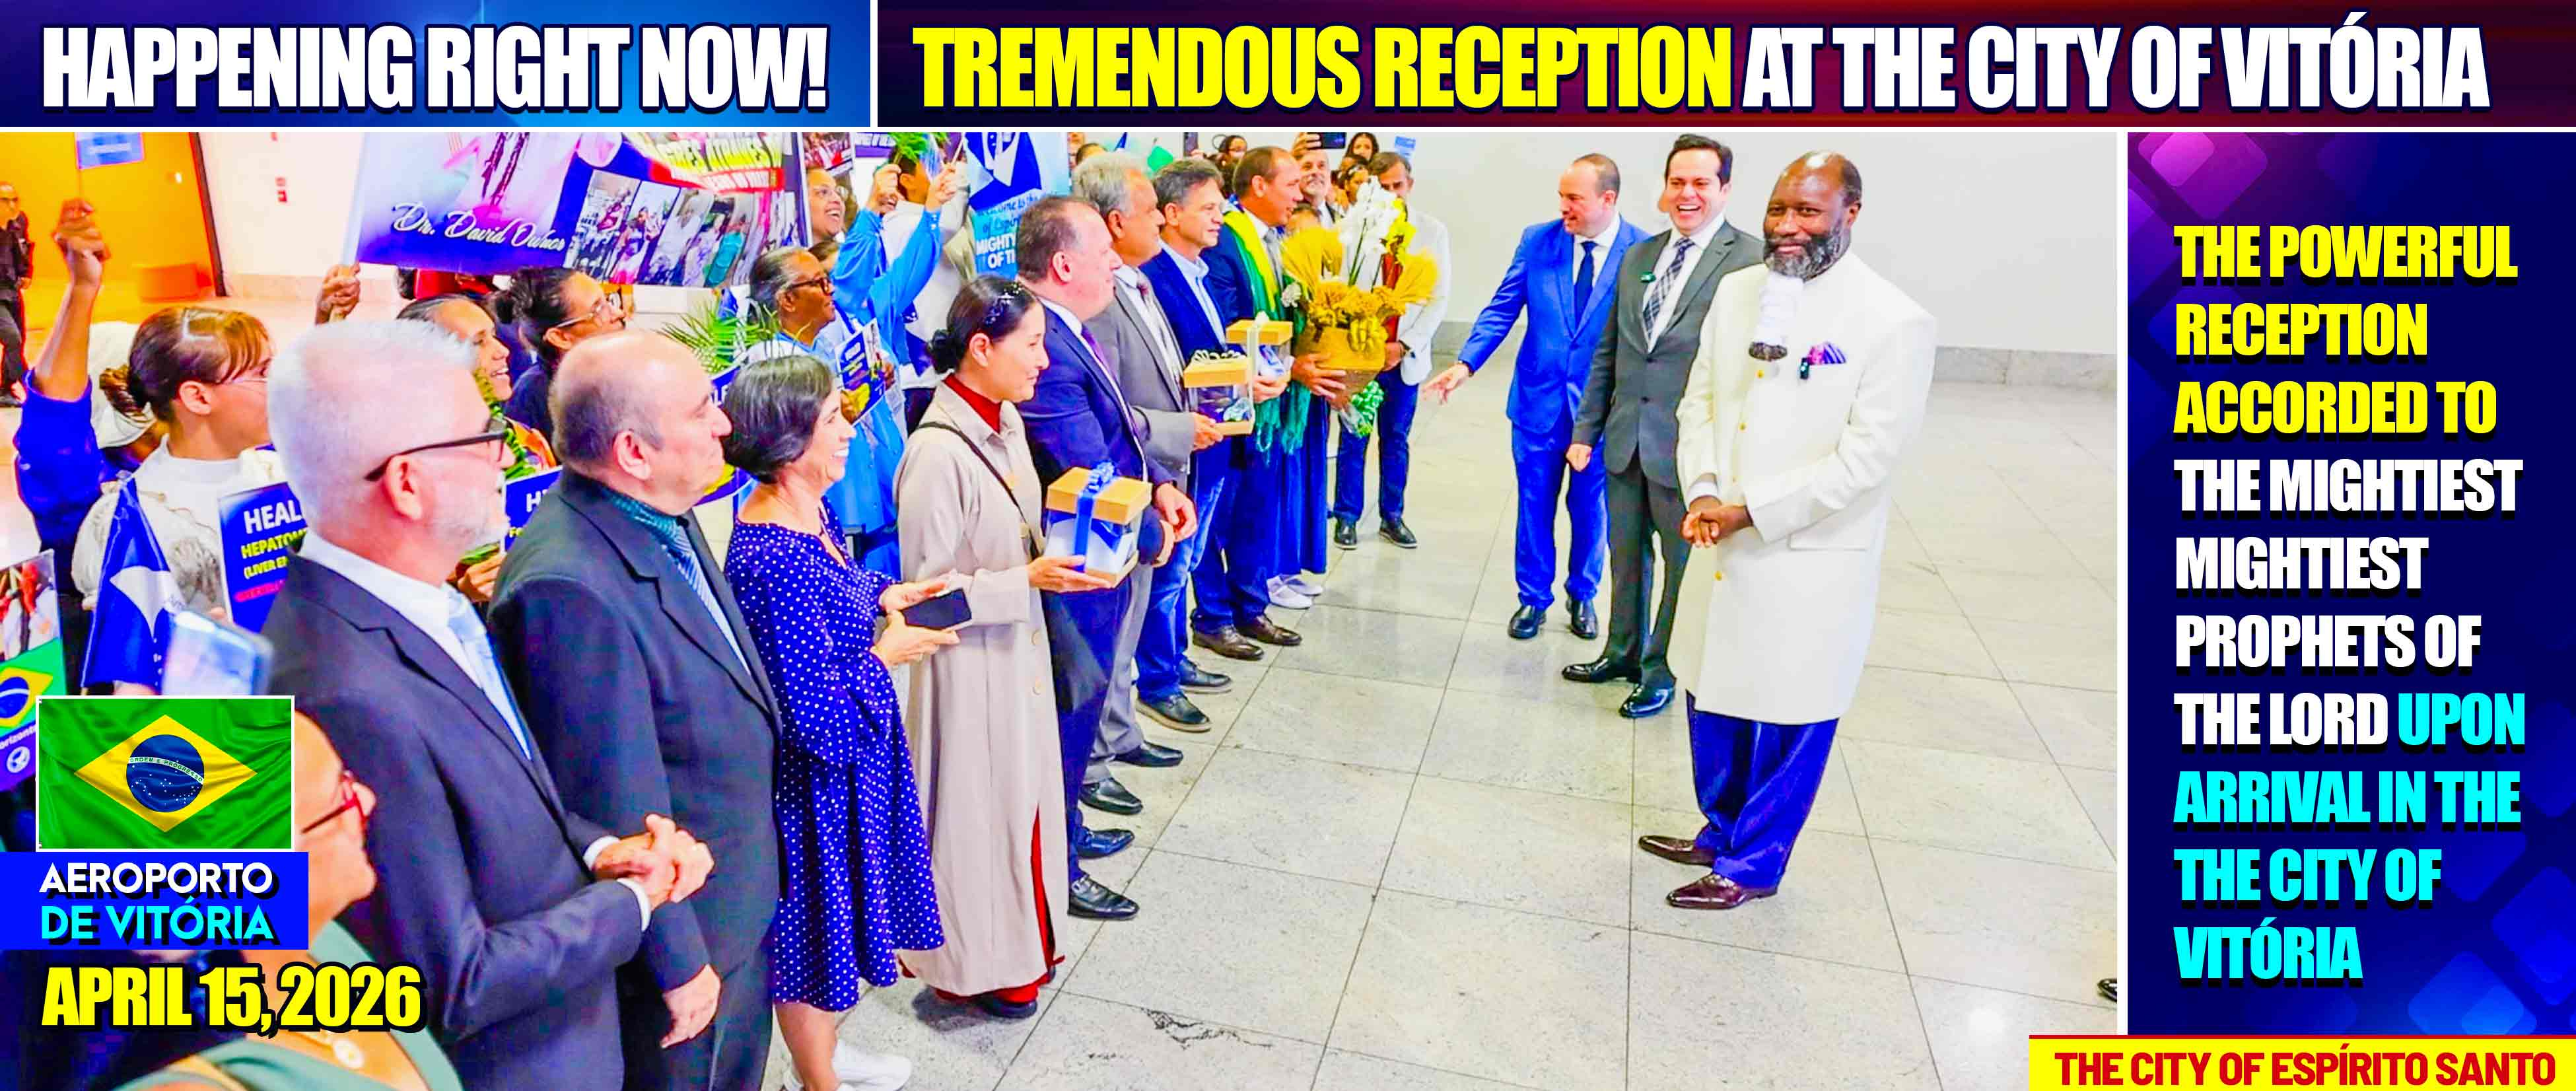
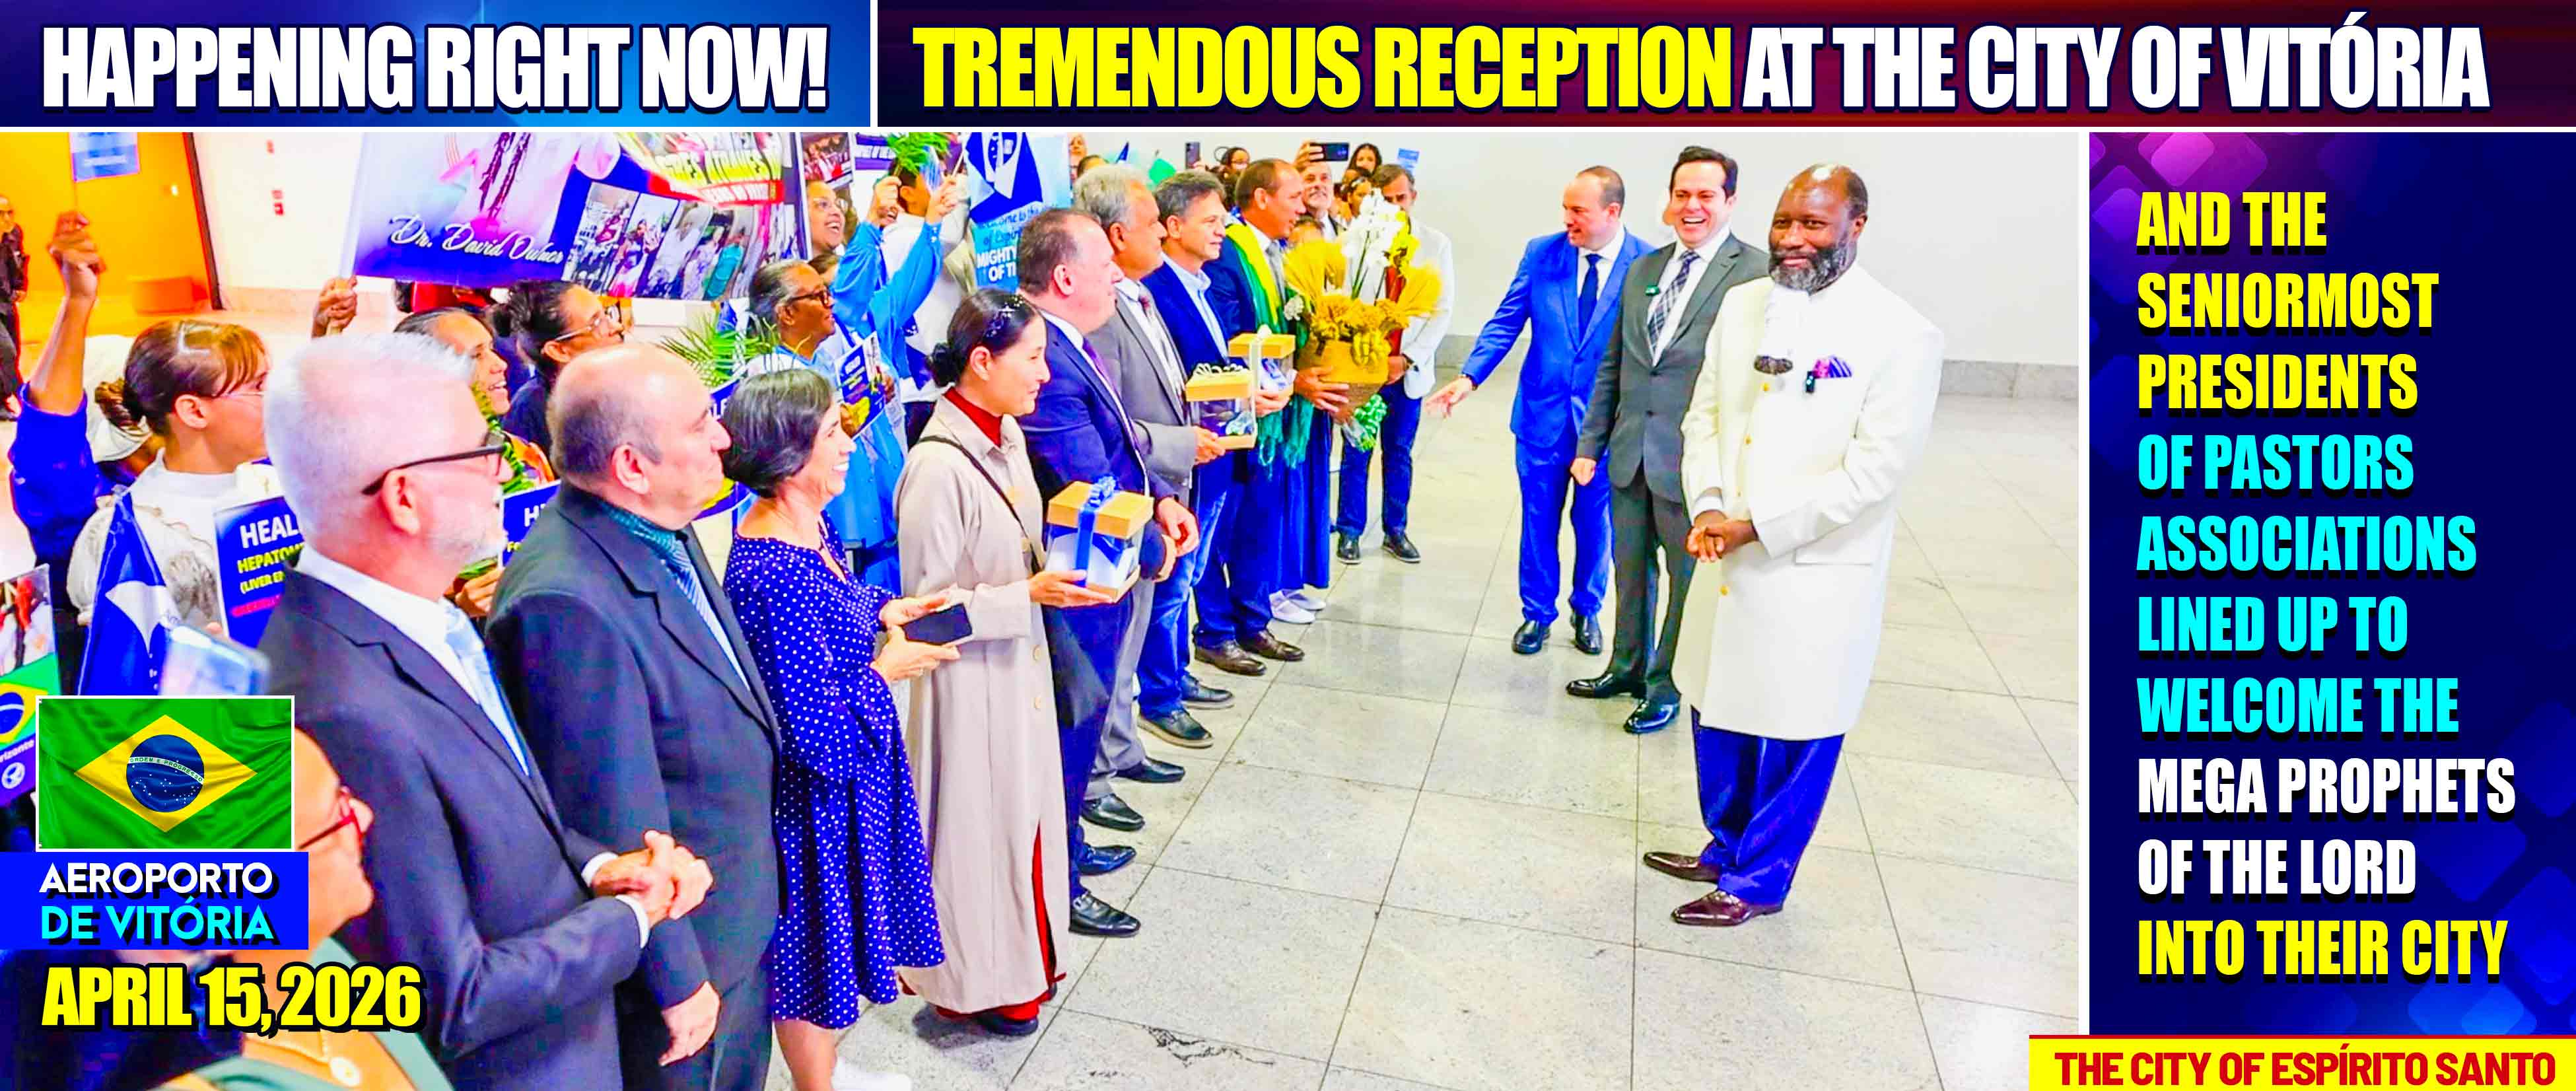
new slides

diff --git a/index.html b/index.html
@@ -12,7 +12,7 @@
 
 <img class="slideshow" src= "https://pub-9f92551086574e82abebdc7b9c83cf92.r2.dev/Abidjan%202026/2.%20Yammoussukro%20Arrival/Skyline---Flag.jpg" alt="Unstable internet, please refresh the browser">
 <img class="slideshow" src= "https://pub-9f92551086574e82abebdc7b9c83cf92.r2.dev/Brazil%202026/2.%20Vitoria%20Arrival/1.jpg" alt="Unstable internet, please refresh the browser">
-
+<img class="slideshow" src= "https://pub-9f92551086574e82abebdc7b9c83cf92.r2.dev/Brazil%202026/2.%20Vitoria%20Arrival/2.jpg" alt="Unstable internet, please refresh the browser">
 
 <img class="slideshow" src= "https://pub-9f92551086574e82abebdc7b9c83cf92.r2.dev/Abidjan%202026/2.%20Yammoussukro%20Arrival/Skyline---Flag.jpg" alt="Unstable internet, please refresh the browser">
 